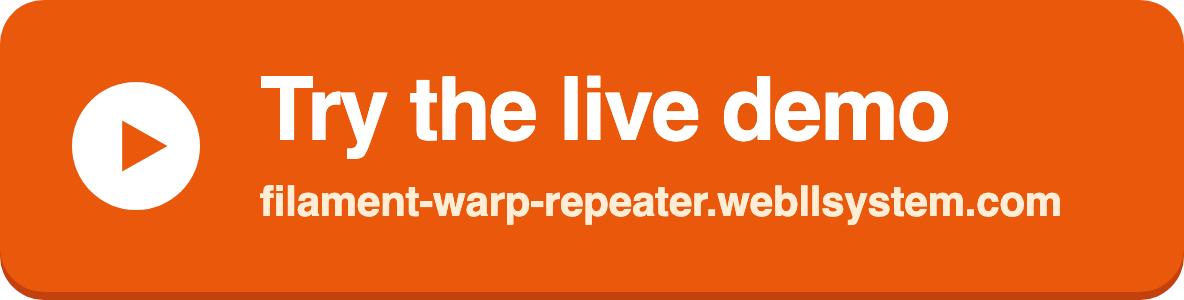
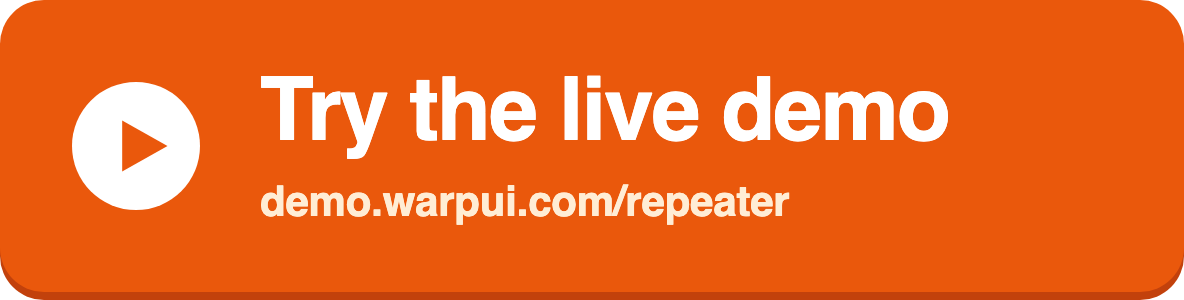
The live demo moved to demo.warpui.com/repeater

Changed region(s): [[0.2188, 0.6, 0.9062, 0.75]]

diff --git a/README.md b/README.md
@@ -4,9 +4,9 @@
 
 **Fast Filament table repeaters for long forms: the rows of a `Repeater::table()` are drawn on a `<canvas>`, with a sticky header and ledger-style multi-level rows that the native repeater does not have, while every field still behaves exactly like Filament's own.**
 
-<a href="https://filament-warp-repeater.webllsystem.com/"><img src="https://raw.githubusercontent.com/qalainau-labs/filament-warp-repeater-docs/main/art/live-demo.png" alt="Try the live demo: filament-warp-repeater.webllsystem.com" width="592"></a>
+<a href="https://demo.warpui.com/repeater"><img src="https://raw.githubusercontent.com/qalainau-labs/filament-warp-repeater-docs/main/art/live-demo.png" alt="Try the live demo: demo.warpui.com/repeater" width="592"></a>
 
-Edit line items, open the searchable selects and date pickers, reorder lines and compare with the native repeater side by side at **[filament-warp-repeater.webllsystem.com](https://filament-warp-repeater.webllsystem.com/)**. No sign-up needed; the data is reset every hour.
+Edit line items, open the searchable selects and date pickers, reorder lines and compare with the native repeater side by side at **[demo.warpui.com/repeater](https://demo.warpui.com/repeater)**. No sign-up needed; the data is reset every hour.
 
 A table repeater with a few hundred items gets slow, and with a thousand it may not render at all. Every item renders every field as Blade, and fields such as a `Select` repeat their whole option list in every row. The browser then has to parse megabytes of HTML and start thousands of Alpine components.
 
